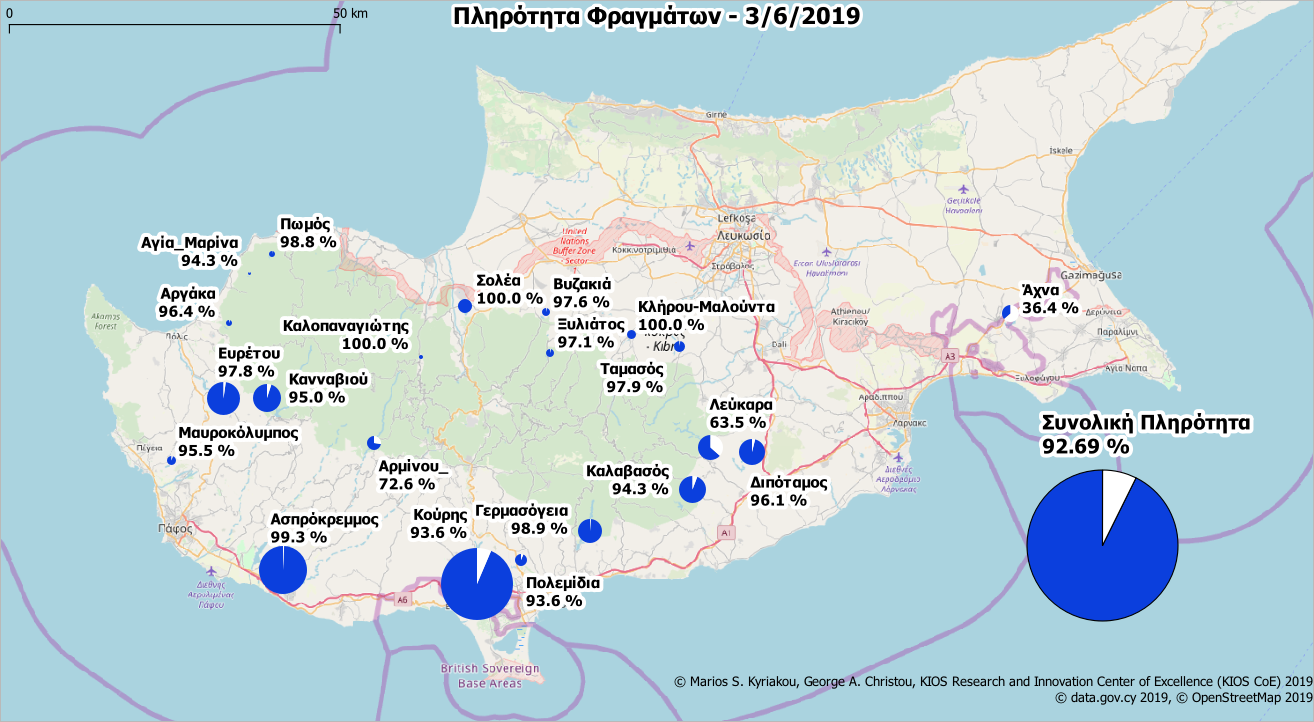
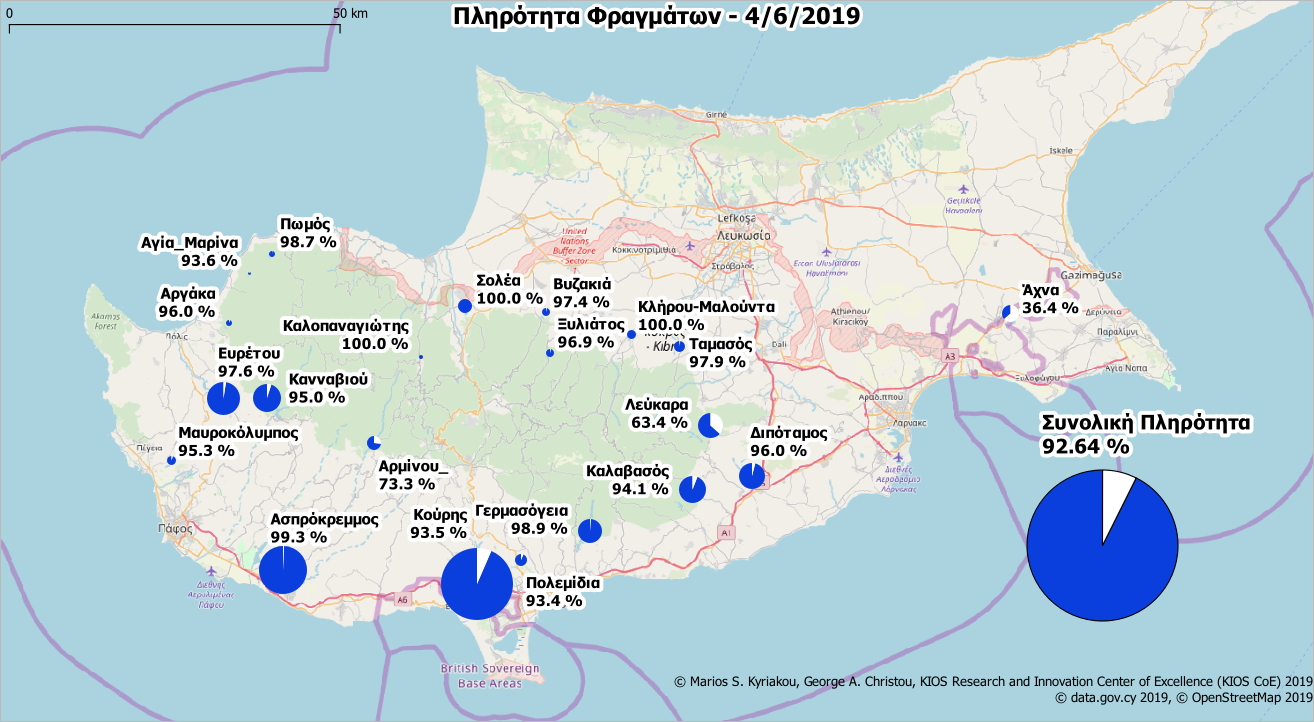
update

Changed region(s): [[0.4368, 0.4571, 0.624, 0.7008], [0.8113, 0.6094, 0.8425, 0.6399], [0.5616, 0.0, 0.5928, 0.0305]]

diff --git a/dams.html b/dams.html
@@ -11,7 +11,7 @@
          1px  1px 7px WHITE;
     }
     }
-    </style><p><b>Ημερομηνία ανανέωσης δεδομένων: 3/6/2019<p><font color="#0000FF">Η συνολική πληρότητα στα φράγματα είναι 92.69%</font>.<p>Υπάρχουν συνολικά <font color="#0000FF">3</font> φράγματα με πληρότητα <font color="#0000FF">100%</font>.<p>Υπάρχουν <font color="#0000FF">20</font> φράγματα με πληρότητα πάνω από <font color="#0000FF">50%</font>.</b><p><b>Υπάρχουν δεδομένα για 21 φράγματα. Συνολικά υπάρχουν 108 φράγματα. <b><p><p><p>* Ε.Κ.Μ. - Εκατομμύρια Kυβικά  Mέτρα.<table width="444">
+    </style><p><b>Ημερομηνία ανανέωσης δεδομένων: 4/6/2019<p><font color="#0000FF">Η συνολική πληρότητα στα φράγματα είναι 92.64%</font>.<p>Υπάρχουν συνολικά <font color="#0000FF">3</font> φράγματα με πληρότητα <font color="#0000FF">100%</font>.<p>Υπάρχουν <font color="#0000FF">20</font> φράγματα με πληρότητα πάνω από <font color="#0000FF">50%</font>.</b><p><b>Υπάρχουν δεδομένα για 21 φράγματα. Συνολικά υπάρχουν 108 φράγματα. <b><p><p><p>* Ε.Κ.Μ. - Εκατομμύρια Kυβικά  Mέτρα.<table width="444">
     <tbody>
     <tr>
     <th width="2"><b></b></th>
@@ -19,7 +19,7 @@
     <th width="60"><b>Χωρητικότητα (Ε.Κ.Μ.)</b></th>
     <th width="60"><b>Σημερινή (Ε.Κ.Μ.)</b></th>
     <th width="60"><b> Σημερινή Πληρότητα (%)</b></th>
-    </tr><tr><td bgcolor=#1A9641 class=border-white>1</td><td bgcolor=#1A9641 class=border-white>Κούρης</td><td bgcolor=#1A9641 class=border-white>115.0</td><td bgcolor=#1A9641 class=border-white>107.601</td><td bgcolor=#1A9641 class=border-white>93.6</td></tr><tr><tr><td bgcolor=#1A9641 class=border-white>2</td><td bgcolor=#1A9641 class=border-white>Ασπρόκρεμμος</td><td bgcolor=#1A9641 class=border-white>52.375</td><td bgcolor=#1A9641 class=border-white>52.031</td><td bgcolor=#1A9641 class=border-white>99.3</td></tr><tr><tr><td bgcolor=#1A9641 class=border-white>3</td><td bgcolor=#1A9641 class=border-white>Ευρέτου</td><td bgcolor=#1A9641 class=border-white>24.0</td><td bgcolor=#1A9641 class=border-white>23.464</td><td bgcolor=#1A9641 class=border-white>97.8</td></tr><tr><tr><td bgcolor=#1A9641 class=border-white>4</td><td bgcolor=#1A9641 class=border-white>Κανναβιού</td><td bgcolor=#1A9641 class=border-white>17.168</td><td bgcolor=#1A9641 class=border-white>16.316</td><td bgcolor=#1A9641 class=border-white>95.0</td></tr><tr><tr><td bgcolor=#1A9641 class=border-white>5</td><td bgcolor=#1A9641 class=border-white>Καλαβασός</td><td bgcolor=#1A9641 class=border-white>17.1</td><td bgcolor=#1A9641 class=border-white>16.129</td><td bgcolor=#1A9641 class=border-white>94.3</td></tr><tr><tr><td bgcolor=#1A9641 class=border-white>6</td><td bgcolor=#1A9641 class=border-white>Διπόταμος</td><td bgcolor=#1A9641 class=border-white>15.5</td><td bgcolor=#1A9641 class=border-white>14.893</td><td bgcolor=#1A9641 class=border-white>96.1</td></tr><tr><tr><td bgcolor=#A6D96A class=border-white>7</td><td bgcolor=#A6D96A class=border-white>Λεύκαρα</td><td bgcolor=#A6D96A class=border-white>13.85</td><td bgcolor=#A6D96A class=border-white>8.788</td><td bgcolor=#A6D96A class=border-white>63.5</td></tr><tr><tr><td bgcolor=#1A9641 class=border-white>8</td><td bgcolor=#1A9641 class=border-white>Γερμασόγεια</td><td bgcolor=#1A9641 class=border-white>13.5</td><td bgcolor=#1A9641 class=border-white>13.357</td><td bgcolor=#1A9641 class=border-white>98.9</td></tr><tr><tr><td bgcolor=#FED690 class=border-white>9</td><td bgcolor=#FED690 class=border-white>Άχνα</td><td bgcolor=#FED690 class=border-white>6.8</td><td bgcolor=#FED690 class=border-white>2.478</td><td bgcolor=#FED690 class=border-white>36.4</td></tr><tr><tr><td bgcolor=#1A9641 class=border-white>10</td><td bgcolor=#1A9641 class=border-white>Σολέα</td><td bgcolor=#1A9641 class=border-white>4.454</td><td bgcolor=#1A9641 class=border-white>4.454</td><td bgcolor=#1A9641 class=border-white>100.0</td></tr><tr><tr><td bgcolor=#77C25C class=border-white>11</td><td bgcolor=#77C25C class=border-white>Αρμίνου_</td><td bgcolor=#77C25C class=border-white>4.3</td><td bgcolor=#77C25C class=border-white>3.123</td><td bgcolor=#77C25C class=border-white>72.6</td></tr><tr><tr><td bgcolor=#1A9641 class=border-white>12</td><td bgcolor=#1A9641 class=border-white>Πολεμίδια</td><td bgcolor=#1A9641 class=border-white>3.4</td><td bgcolor=#1A9641 class=border-white>3.182</td><td bgcolor=#1A9641 class=border-white>93.6</td></tr><tr><tr><td bgcolor=#1A9641 class=border-white>13</td><td bgcolor=#1A9641 class=border-white>Ταμασός</td><td bgcolor=#1A9641 class=border-white>2.8</td><td bgcolor=#1A9641 class=border-white>2.74</td><td bgcolor=#1A9641 class=border-white>97.9</td></tr><tr><tr><td bgcolor=#1A9641 class=border-white>14</td><td bgcolor=#1A9641 class=border-white>Μαυροκόλυμπος</td><td bgcolor=#1A9641 class=border-white>2.18</td><td bgcolor=#1A9641 class=border-white>2.081</td><td bgcolor=#1A9641 class=border-white>95.5</td></tr><tr><tr><td bgcolor=#1A9641 class=border-white>15</td><td bgcolor=#1A9641 class=border-white>Κλήρου-Μαλούντα</td><td bgcolor=#1A9641 class=border-white>2.0</td><td bgcolor=#1A9641 class=border-white>2.0</td><td bgcolor=#1A9641 class=border-white>100.0</td></tr><tr><tr><td bgcolor=#1A9641 class=border-white>16</td><td bgcolor=#1A9641 class=border-white>Βυζακιά</td><td bgcolor=#1A9641 class=border-white>1.69</td><td bgcolor=#1A9641 class=border-white>1.649</td><td bgcolor=#1A9641 class=border-white>97.6</td></tr><tr><tr><td bgcolor=#1A9641 class=border-white>17</td><td bgcolor=#1A9641 class=border-white>Ξυλιάτος</td><td bgcolor=#1A9641 class=border-white>1.43</td><td bgcolor=#1A9641 class=border-white>1.388</td><td bgcolor=#1A9641 class=border-white>97.1</td></tr><tr><tr><td bgcolor=#1A9641 class=border-white>18</td><td bgcolor=#1A9641 class=border-white>Αργάκα</td><td bgcolor=#1A9641 class=border-white>0.99</td><td bgcolor=#1A9641 class=border-white>0.954</td><td bgcolor=#1A9641 class=border-white>96.4</td></tr><tr><tr><td bgcolor=#1A9641 class=border-white>19</td><td bgcolor=#1A9641 class=border-white>Πωμός</td><td bgcolor=#1A9641 class=border-white>0.86</td><td bgcolor=#1A9641 class=border-white>0.85</td><td bgcolor=#1A9641 class=border-white>98.8</td></tr><tr><tr><td bgcolor=#1A9641 class=border-white>20</td><td bgcolor=#1A9641 class=border-white>Καλοπαναγιώτης</td><td bgcolor=#1A9641 class=border-white>0.363</td><td bgcolor=#1A9641 class=border-white>0.363</td><td bgcolor=#1A9641 class=border-white>100.0</td></tr><tr><tr><td bgcolor=#1A9641 class=border-white>21</td><td bgcolor=#1A9641 class=border-white>Αγία_Μαρίνα</td><td bgcolor=#1A9641 class=border-white>0.298</td><td bgcolor=#1A9641 class=border-white>0.281</td><td bgcolor=#1A9641 class=border-white>94.3</td></tr><tr>
+    </tr><tr><td bgcolor=#1A9641 class=border-white>1</td><td bgcolor=#1A9641 class=border-white>Κούρης</td><td bgcolor=#1A9641 class=border-white>115.0</td><td bgcolor=#1A9641 class=border-white>107.569</td><td bgcolor=#1A9641 class=border-white>93.5</td></tr><tr><tr><td bgcolor=#1A9641 class=border-white>2</td><td bgcolor=#1A9641 class=border-white>Ασπρόκρεμμος</td><td bgcolor=#1A9641 class=border-white>52.375</td><td bgcolor=#1A9641 class=border-white>52.006</td><td bgcolor=#1A9641 class=border-white>99.3</td></tr><tr><tr><td bgcolor=#1A9641 class=border-white>3</td><td bgcolor=#1A9641 class=border-white>Ευρέτου</td><td bgcolor=#1A9641 class=border-white>24.0</td><td bgcolor=#1A9641 class=border-white>23.429</td><td bgcolor=#1A9641 class=border-white>97.6</td></tr><tr><tr><td bgcolor=#1A9641 class=border-white>4</td><td bgcolor=#1A9641 class=border-white>Κανναβιού</td><td bgcolor=#1A9641 class=border-white>17.168</td><td bgcolor=#1A9641 class=border-white>16.307</td><td bgcolor=#1A9641 class=border-white>95.0</td></tr><tr><tr><td bgcolor=#1A9641 class=border-white>5</td><td bgcolor=#1A9641 class=border-white>Καλαβασός</td><td bgcolor=#1A9641 class=border-white>17.1</td><td bgcolor=#1A9641 class=border-white>16.094</td><td bgcolor=#1A9641 class=border-white>94.1</td></tr><tr><tr><td bgcolor=#1A9641 class=border-white>6</td><td bgcolor=#1A9641 class=border-white>Διπόταμος</td><td bgcolor=#1A9641 class=border-white>15.5</td><td bgcolor=#1A9641 class=border-white>14.883</td><td bgcolor=#1A9641 class=border-white>96.0</td></tr><tr><tr><td bgcolor=#A6D96A class=border-white>7</td><td bgcolor=#A6D96A class=border-white>Λεύκαρα</td><td bgcolor=#A6D96A class=border-white>13.85</td><td bgcolor=#A6D96A class=border-white>8.785</td><td bgcolor=#A6D96A class=border-white>63.4</td></tr><tr><tr><td bgcolor=#1A9641 class=border-white>8</td><td bgcolor=#1A9641 class=border-white>Γερμασόγεια</td><td bgcolor=#1A9641 class=border-white>13.5</td><td bgcolor=#1A9641 class=border-white>13.346</td><td bgcolor=#1A9641 class=border-white>98.9</td></tr><tr><tr><td bgcolor=#FED690 class=border-white>9</td><td bgcolor=#FED690 class=border-white>Άχνα</td><td bgcolor=#FED690 class=border-white>6.8</td><td bgcolor=#FED690 class=border-white>2.478</td><td bgcolor=#FED690 class=border-white>36.4</td></tr><tr><tr><td bgcolor=#1A9641 class=border-white>10</td><td bgcolor=#1A9641 class=border-white>Σολέα</td><td bgcolor=#1A9641 class=border-white>4.454</td><td bgcolor=#1A9641 class=border-white>4.454</td><td bgcolor=#1A9641 class=border-white>100.0</td></tr><tr><tr><td bgcolor=#77C25C class=border-white>11</td><td bgcolor=#77C25C class=border-white>Αρμίνου_</td><td bgcolor=#77C25C class=border-white>4.3</td><td bgcolor=#77C25C class=border-white>3.154</td><td bgcolor=#77C25C class=border-white>73.3</td></tr><tr><tr><td bgcolor=#1A9641 class=border-white>12</td><td bgcolor=#1A9641 class=border-white>Πολεμίδια</td><td bgcolor=#1A9641 class=border-white>3.4</td><td bgcolor=#1A9641 class=border-white>3.176</td><td bgcolor=#1A9641 class=border-white>93.4</td></tr><tr><tr><td bgcolor=#1A9641 class=border-white>13</td><td bgcolor=#1A9641 class=border-white>Ταμασός</td><td bgcolor=#1A9641 class=border-white>2.8</td><td bgcolor=#1A9641 class=border-white>2.74</td><td bgcolor=#1A9641 class=border-white>97.9</td></tr><tr><tr><td bgcolor=#1A9641 class=border-white>14</td><td bgcolor=#1A9641 class=border-white>Μαυροκόλυμπος</td><td bgcolor=#1A9641 class=border-white>2.18</td><td bgcolor=#1A9641 class=border-white>2.078</td><td bgcolor=#1A9641 class=border-white>95.3</td></tr><tr><tr><td bgcolor=#1A9641 class=border-white>15</td><td bgcolor=#1A9641 class=border-white>Κλήρου-Μαλούντα</td><td bgcolor=#1A9641 class=border-white>2.0</td><td bgcolor=#1A9641 class=border-white>2.0</td><td bgcolor=#1A9641 class=border-white>100.0</td></tr><tr><tr><td bgcolor=#1A9641 class=border-white>16</td><td bgcolor=#1A9641 class=border-white>Βυζακιά</td><td bgcolor=#1A9641 class=border-white>1.69</td><td bgcolor=#1A9641 class=border-white>1.646</td><td bgcolor=#1A9641 class=border-white>97.4</td></tr><tr><tr><td bgcolor=#1A9641 class=border-white>17</td><td bgcolor=#1A9641 class=border-white>Ξυλιάτος</td><td bgcolor=#1A9641 class=border-white>1.43</td><td bgcolor=#1A9641 class=border-white>1.386</td><td bgcolor=#1A9641 class=border-white>96.9</td></tr><tr><tr><td bgcolor=#1A9641 class=border-white>18</td><td bgcolor=#1A9641 class=border-white>Αργάκα</td><td bgcolor=#1A9641 class=border-white>0.99</td><td bgcolor=#1A9641 class=border-white>0.95</td><td bgcolor=#1A9641 class=border-white>96.0</td></tr><tr><tr><td bgcolor=#1A9641 class=border-white>19</td><td bgcolor=#1A9641 class=border-white>Πωμός</td><td bgcolor=#1A9641 class=border-white>0.86</td><td bgcolor=#1A9641 class=border-white>0.849</td><td bgcolor=#1A9641 class=border-white>98.7</td></tr><tr><tr><td bgcolor=#1A9641 class=border-white>20</td><td bgcolor=#1A9641 class=border-white>Καλοπαναγιώτης</td><td bgcolor=#1A9641 class=border-white>0.363</td><td bgcolor=#1A9641 class=border-white>0.363</td><td bgcolor=#1A9641 class=border-white>100.0</td></tr><tr><tr><td bgcolor=#1A9641 class=border-white>21</td><td bgcolor=#1A9641 class=border-white>Αγία_Μαρίνα</td><td bgcolor=#1A9641 class=border-white>0.298</td><td bgcolor=#1A9641 class=border-white>0.279</td><td bgcolor=#1A9641 class=border-white>93.6</td></tr><tr>
     </tr>
     <tr>
     <td></td>
